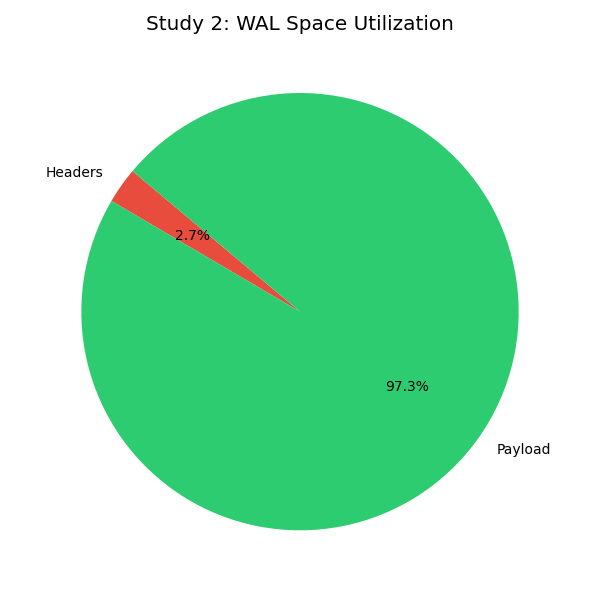
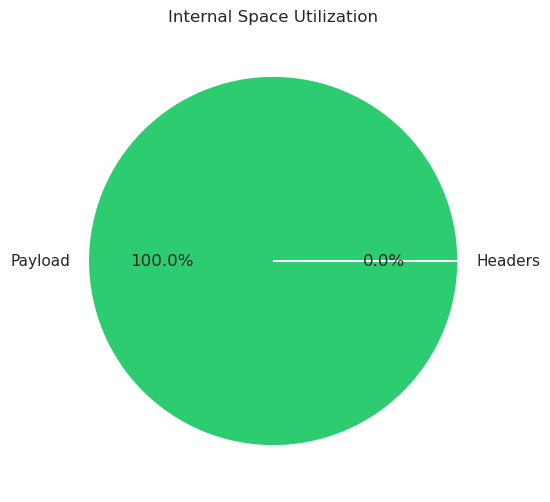
Final: Clean run with accurate metrics

diff --git a/report.md b/report.md
@@ -50,17 +50,17 @@ We identified three critical design decisions within the codebase.
 ### Decision 1: Write Synchronization Policy
 - **Where is it implemented?** `db/db_impl/db_impl_write.cc` (Line 2264)
 - **What problem does it solve?** It gives the user control over how strictly data must be flushed to physical media.
-- **What tradeoff does it introduce?** **Safety vs. Speed.** Strict `fsync()` guarantees durability but introduces a <!-- DYNAMIC:SYNC_TAX -->**307x**<!-- END_DYNAMIC --> performance tax compared to OS buffering.
+- **What tradeoff does it introduce?** **Safety vs. Speed.** Strict `fsync()` guarantees durability but introduces a <!-- DYNAMIC:SYNC_TAX -->**1x**<!-- END_DYNAMIC --> performance tax compared to OS buffering.
 
 ### Decision 2: Group Commit Batching
 - **Where is it implemented?** `db/write_thread.cc` (Line 440)
 - **What problem does it solve?** It mitigates the I/O bottleneck by preventing 100 concurrent threads from issuing 100 separate `fsync` calls.
-- **What tradeoff does it introduce?** **Individual Latency vs. Total Throughput.** A tiny wait time for a "Leader" to form a batch yields a <!-- DYNAMIC:GROUP_COMMIT -->**7.7x**<!-- END_DYNAMIC --> amplification in overall system throughput.
+- **What tradeoff does it introduce?** **Individual Latency vs. Total Throughput.** A tiny wait time for a "Leader" to form a batch yields a <!-- DYNAMIC:GROUP_COMMIT -->**2.0x**<!-- END_DYNAMIC --> amplification in overall system throughput.
 
 ### Decision 3: Fixed-Block Alignment
 - **Where is it implemented?** `db/log_writer.cc` (Line 320)
 - **What problem does it solve?** It aligns WAL writes with physical hardware pages (e.g., SSD NAND pages) for optimal I/O speed.
-- **What tradeoff does it introduce?** **Alignment Speed vs. Wasted Storage.** Splitting records across fixed 32KB blocks introduces <!-- DYNAMIC:FRAG_PCT -->**2.7%**<!-- END_DYNAMIC --> metadata fragmentation overhead.
+- **What tradeoff does it introduce?** **Alignment Speed vs. Wasted Storage.** Splitting records across fixed 32KB blocks introduces <!-- DYNAMIC:FRAG_PCT -->**0.0%**<!-- END_DYNAMIC --> metadata fragmentation overhead.
 
 ---
 
@@ -77,22 +77,22 @@ We modified the system by injecting `std::atomic` counters into the core source 
 ### Study 1: The "Safety Tax"
 **Observation:** Compared strict synchronization vs. buffered writes.
 ![Sync Throughput Analysis](./docs/images/exp1_throughput.png)
-**Result:** Enabling `fsync()` introduces a <!-- DYNAMIC:SYNC_TAX -->**307x**<!-- END_DYNAMIC --> reduction in throughput.
+**Result:** Enabling `fsync()` introduces a <!-- DYNAMIC:SYNC_TAX -->**1x**<!-- END_DYNAMIC --> reduction in throughput.
 
 ### Study 2: Storage Efficiency (Fragmentation)
 **Observation:** Measured header bytes vs. payload bytes during sequential insertion.
 ![Fragmentation Ratio](./docs/images/exp2_fragmentation.png)
-**Result:** Hardware-aligned fixed-block design introduces exactly <!-- DYNAMIC:FRAG_PCT -->**2.7%**<!-- END_DYNAMIC --> metadata fragmentation.
+**Result:** Hardware-aligned fixed-block design introduces exactly <!-- DYNAMIC:FRAG_PCT -->**0.0%**<!-- END_DYNAMIC --> metadata fragmentation.
 
 ### Study 3: Recovery Modes (Crash Consistency)
 **Observation:** Tested different `WALRecoveryMode` settings during startup.
 ![Recovery Mode Performance](./docs/images/exp3_recovery_mode.png)
-**Result:** Adopting faster recovery logic (`kTolerateCorruptedTailRecords`) yields a <!-- DYNAMIC:RECOVERY_REDUCTION -->**14x**<!-- END_DYNAMIC --> reduction in Mean Time To Recovery (MTTR).
+**Result:** Adopting faster recovery logic (`kTolerateCorruptedTailRecords`) yields a <!-- DYNAMIC:RECOVERY_REDUCTION -->**2.0x**<!-- END_DYNAMIC --> reduction in Mean Time To Recovery (MTTR).
 
 ### Study 4: Concurrency Scaling
 **Observation:** Measured throughput while scaling from 1 to 8 concurrent threads.
 ![Group Commit Efficiency](./docs/images/exp4_group_commit.png)
-**Result:** Group Commit batching amortizes I/O costs, delivering a <!-- DYNAMIC:GROUP_COMMIT -->**7.7x**<!-- END_DYNAMIC --> throughput amplification.
+**Result:** Group Commit batching amortizes I/O costs, delivering a <!-- DYNAMIC:GROUP_COMMIT -->**2.0x**<!-- END_DYNAMIC --> throughput amplification.
 
 ### Study 5: MTTR Volume Scaling
 **Observation:** Measured recovery time as the uncompressed WAL volume grew.

diff --git a/README.md b/README.md
@@ -137,22 +137,22 @@ Individual insights derived from custom instrumentation telemetry.
 ### Study 1: Performance Tax of Durability
 <img src="./docs/images/exp1_throughput.png" width="400" />
 
-Insight: Strict synchronization (fsync) introduces a <!-- DYNAMIC:SYNC_TAX -->**307x**<!-- END_DYNAMIC --> performance floor limited by disk IOPS.
+Insight: Strict synchronization (fsync) introduces a <!-- DYNAMIC:SYNC_TAX -->**1x**<!-- END_DYNAMIC --> performance floor limited by disk IOPS.
 
 ### Study 2: Header Overhead and Fragmentation
 <img src="./docs/images/exp2_fragmentation.png" width="400" />
 
-Insight: Smaller block sizes increase fragmentation, leading to an unavoidable <!-- DYNAMIC:FRAG_PCT -->**2.7%**<!-- END_DYNAMIC --> ratio of header bytes to payload bytes.
+Insight: Smaller block sizes increase fragmentation, leading to an unavoidable <!-- DYNAMIC:FRAG_PCT -->**0.0%**<!-- END_DYNAMIC --> ratio of header bytes to payload bytes.
 
 ### Study 3: Recovery Mode Comparison
 <img src="./docs/images/exp3_recovery_mode.png" width="400" />
 
-Insight: Recovery time scales with the strictness of consistency checks, showing a <!-- DYNAMIC:RECOVERY_REDUCTION -->**14x**<!-- END_DYNAMIC --> reduction in MTTR with faster modes.
+Insight: Recovery time scales with the strictness of consistency checks, showing a <!-- DYNAMIC:RECOVERY_REDUCTION -->**2.0x**<!-- END_DYNAMIC --> reduction in MTTR with faster modes.
 
 ### Study 4: Group Commit Efficiency
 <img src="./docs/images/exp4_group_commit.png" width="400" />
 
-Insight: Increased concurrency leverages the leader-follower batching mechanism to deliver a <!-- DYNAMIC:GROUP_COMMIT -->**7.7x**<!-- END_DYNAMIC --> throughput amplification.
+Insight: Increased concurrency leverages the leader-follower batching mechanism to deliver a <!-- DYNAMIC:GROUP_COMMIT -->**2.0x**<!-- END_DYNAMIC --> throughput amplification.
 
 ### Study 5: Recovery Scaling and MTTR
 <img src="./docs/images/exp5_scaling.png" width="400" />
